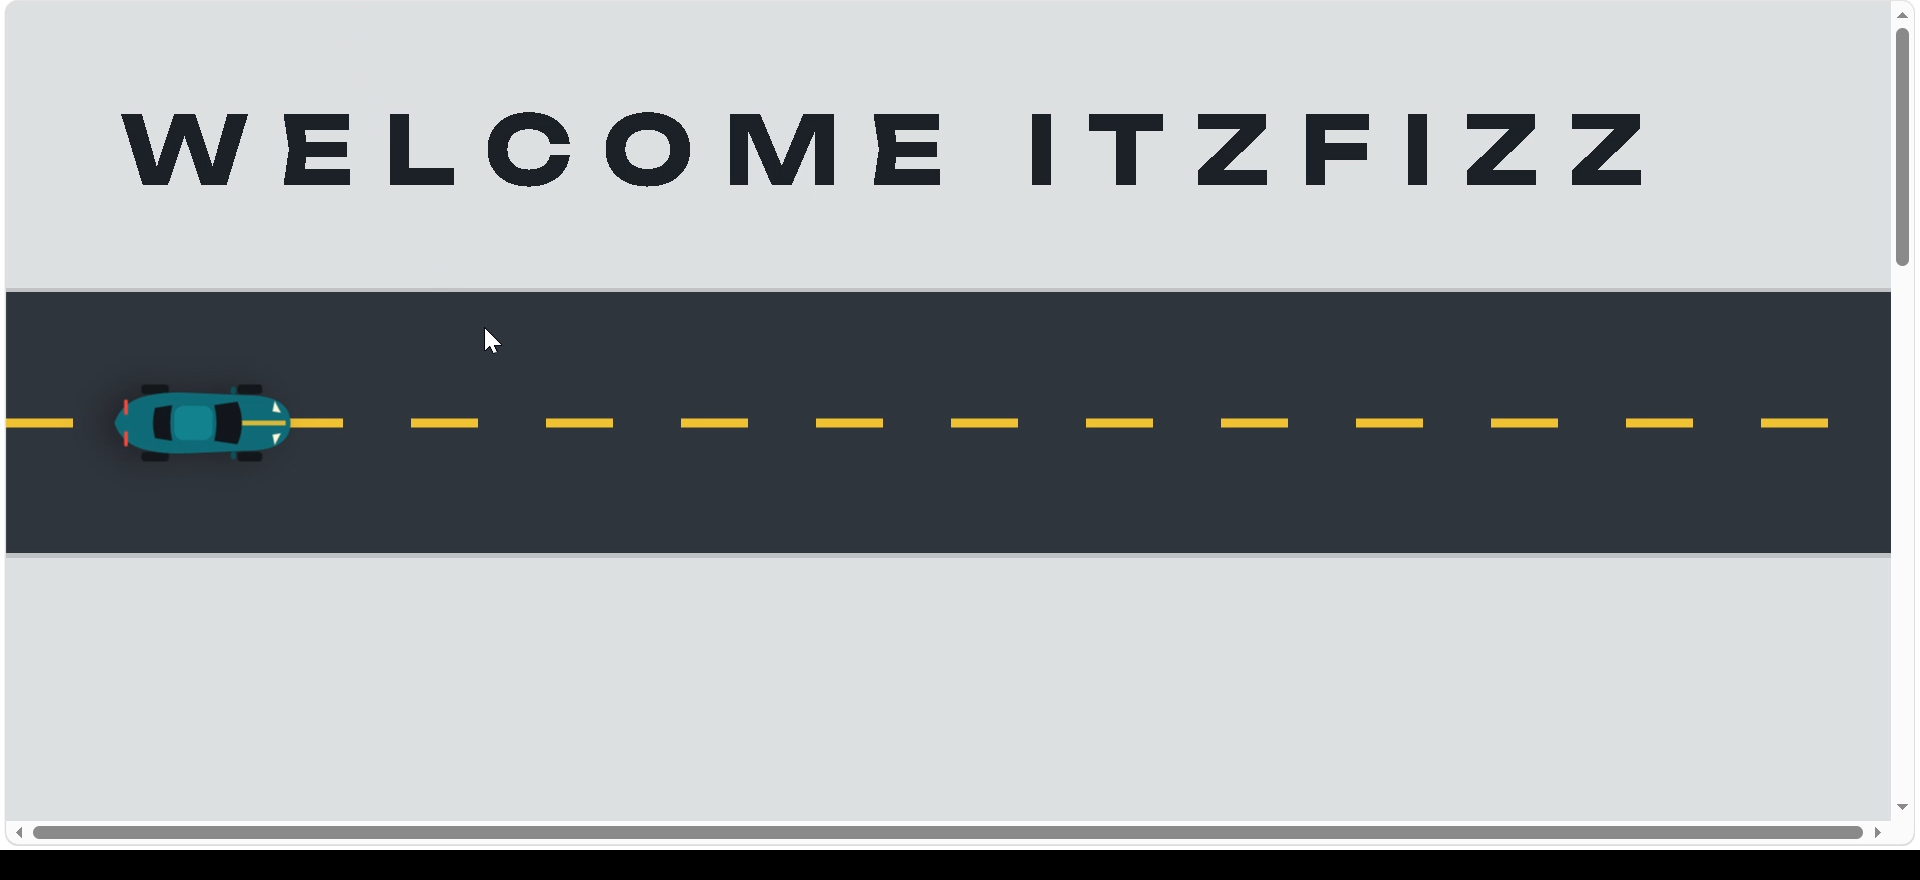
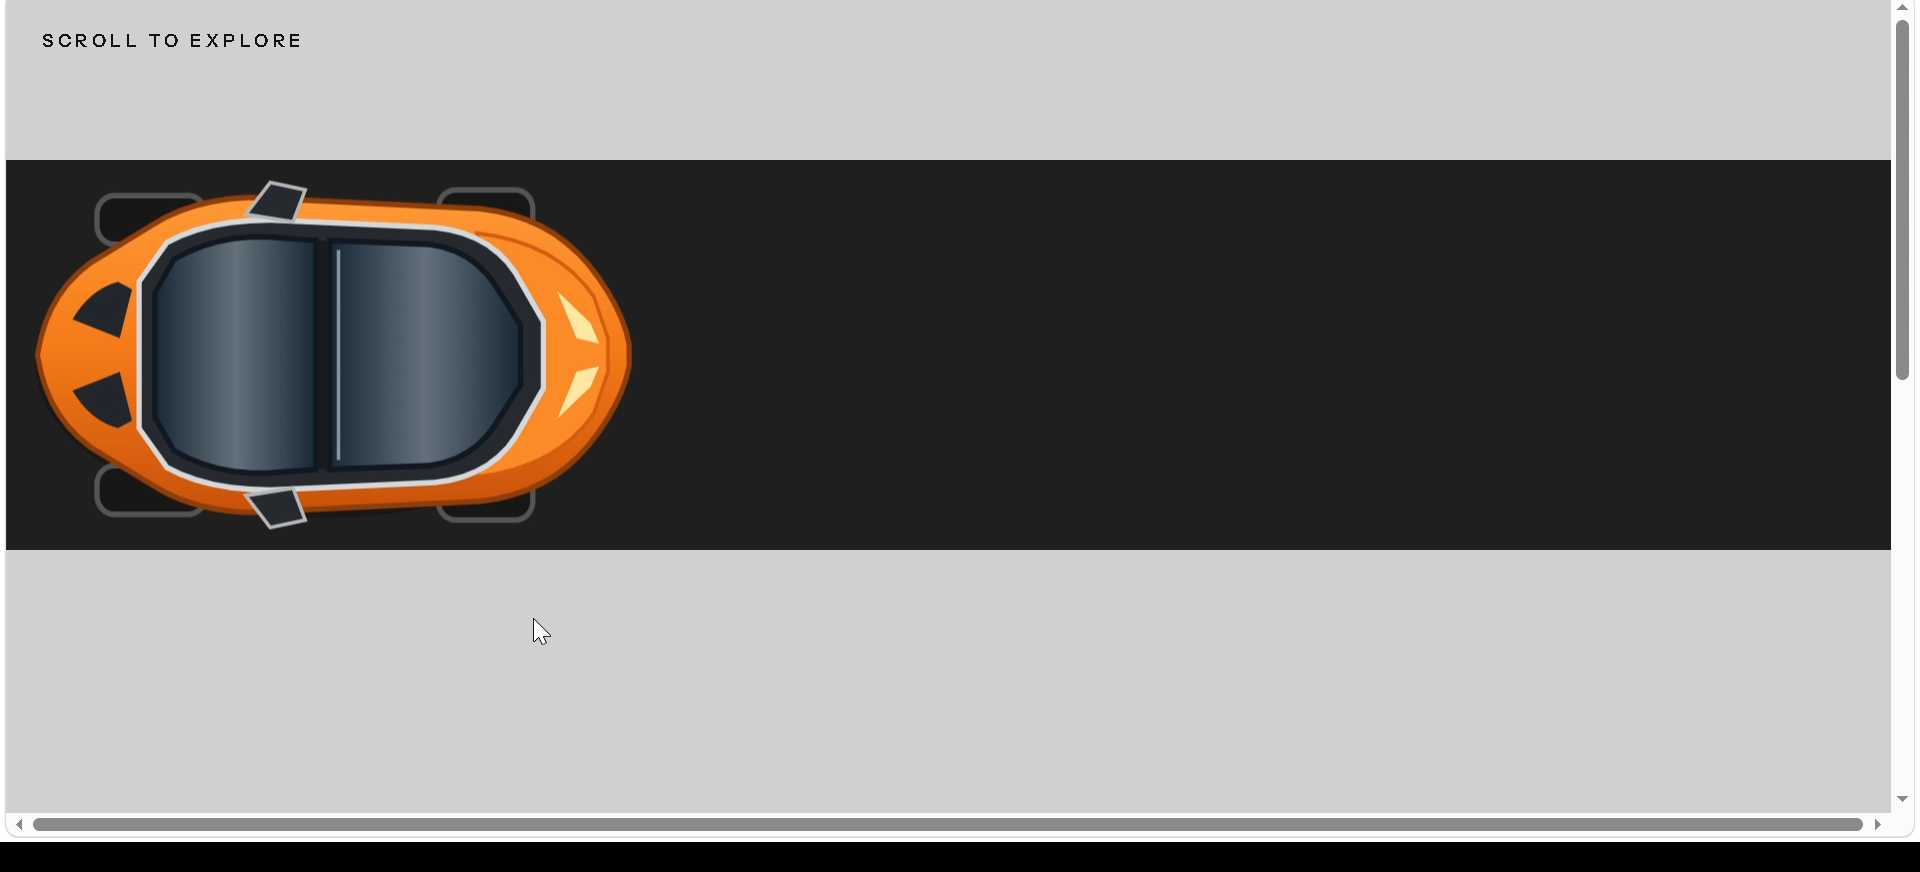
Fixed Car and Hero components

diff --git a/README.md b/README.md
@@ -1,3 +1,4 @@
+<<<<<<< HEAD
 # Scroll-Driven Hero Section Animation 🚗
 
 An interactive hero section featuring a car that moves horizontally based on the user's scroll position. Built using Next.js, React, Tailwind CSS, and GSAP ScrollTrigger to create a smooth and engaging scrolling experience.
@@ -53,7 +54,44 @@ Animation in Action
 ![Screenshot 2](./screenshots/2.png)
 ![Screenshot 3](./screenshots/3.png)
 ## 🌐 Live Demo
-video - (https://drive.google.com/file/d/1cU6_I1pNBqrFgNgh8gm2rawXjIzQGgj7/view?usp=sharing)
+video - (https://drive.google.com/file/d/1nMnAhxyGHEPjfIfGvAlsdJB_7hMJZJr8/view?usp=sharing)
 live link - https://dev435435.github.io/Scroll-Driven-Hero-Section-Animation/
 
 
+=======
+Scroll-Driven Hero Section Animation 🚗
+An interactive hero section featuring a car that moves horizontally based on the user's scroll position. Built using Next.js, React, Tailwind CSS, and GSAP ScrollTrigger to create a smooth and engaging scrolling experience.
+
+🚀 Features
+Scroll-driven horizontal car animation
+Smooth animations using GSAP and ScrollTrigger
+Responsive hero section design
+Scroll-linked animation progress
+Dynamic metrics reveal during scrolling
+🛠 Tech Stack
+Next.js – React framework
+React.js – UI development
+Tailwind CSS – Styling and responsive design
+GSAP – Animation library
+ScrollTrigger – Scroll-based animation control
+⚙ Installation and Setup
+Clone the repository:
+
+git clone YOUR_REPOSITORY_URL
+Navigate to the project folder:
+
+cd YOUR_PROJECT_FOLDER
+Install dependencies:
+
+npm install
+Start the development server:
+
+npm run dev
+Open http://localhost:3000 in your browser.
+
+📸 Screenshots
+Scroll-Driven Car Animation (./screenshots/1.png) Animation in Action (./screenshots/2.png) (./screenshots/3.png)
+
+🌐 Live Demo
+https://drive.google.com/file/d/1nMnAhxyGHEPjfIfGvAlsdJB_7hMJZJr8/view?usp=sharing
+>>>>>>> 98b53dd (Fix README screenshots)
